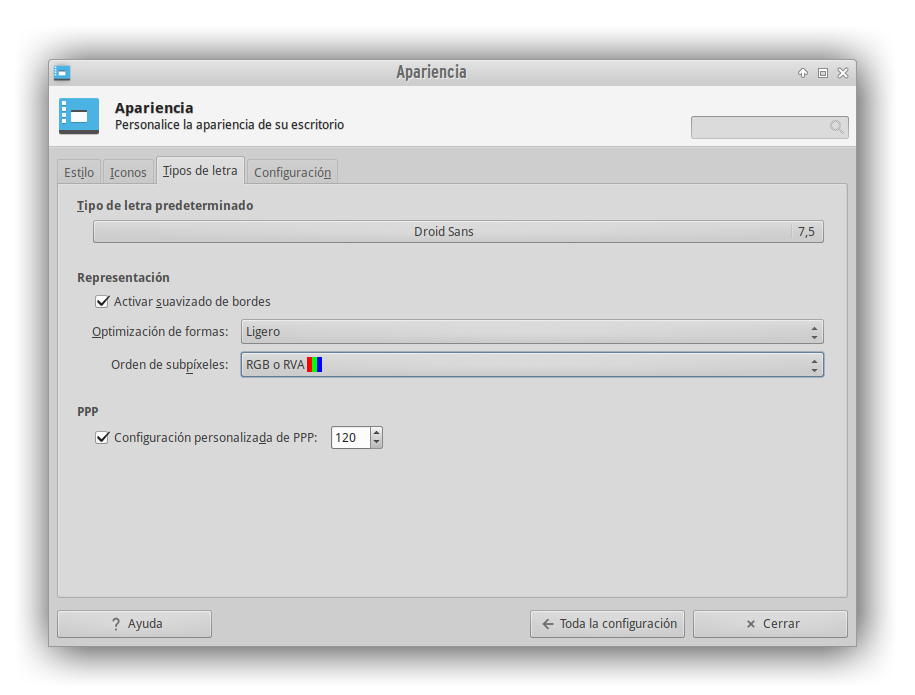
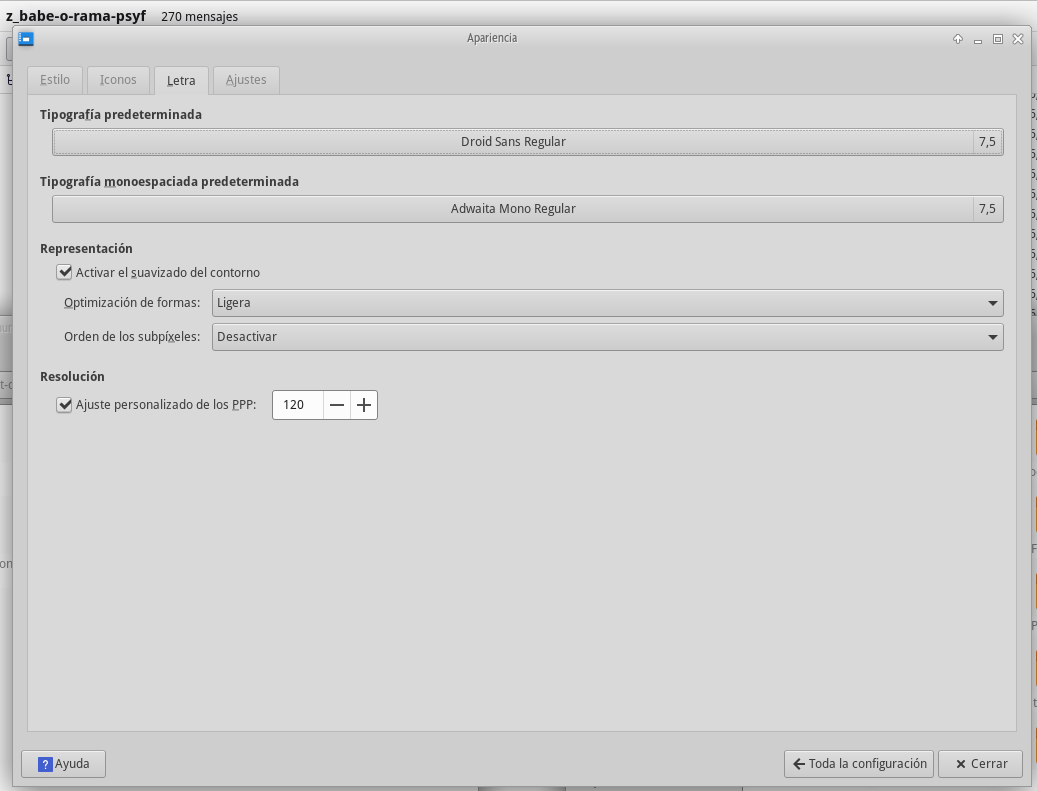
Fonts: multi-toolkit fix (fontconfig + XFCE Xft + Qt5/Qt6 sync)

diff --git a/fonts/README.md b/fonts/README.md
@@ -43,9 +43,60 @@ That's all, folks!
 A configuration file of font rendering to copy into:
 `/home/<user>/.config/fontconfig/`
 
+It only sets:
+
+- Antialiasing: on
+- Hinting: slight (`hintslight`)
+
+Nothing else: DPI, subpixel order and fonts are **desktop** settings, not
+fontconfig ones. They depend on your screen, so configure them in your
+desktop environment (XFCE: *Apariencia → Letra*).
+
 ## XFCE Configuration
 
+`install.sh` applies these XFCE settings via `xfconf-query` (skip with
+`SKIP_XFCONF=1`; they are skipped automatically when not running XFCE
+or when running as root):
+
+- Default font: Droid Sans 7.5
+- Default monospace font: Adwaita Mono 7.5
+- Antialiasing: on
+- Hinting: slight
+- Subpixel order: off (grayscale)
+- Custom DPI: 120
+
+Adjust DPI and subpixel order to your screen in *Apariencia → Letra*.
+
 ![XFCE Font Configuration](./fonts-xfce.png)
+
+## Toolkit Coverage (GTK and Qt)
+
+How font rendering and typography resolve per toolkit under XFCE:
+
+| Toolkit | Rendering (AA / hinting / DPI) | Typography (font family + size) |
+|---------|-------------------------------|--------------------------------|
+| GTK2    | XSETTINGS (xfsettingsd)       | XSETTINGS (xfsettingsd)        |
+| GTK3    | XSETTINGS (xfsettingsd)       | XSETTINGS (xfsettingsd)        |
+| GTK4    | XSETTINGS (xfsettingsd)       | XSETTINGS (xfsettingsd)        |
+| Qt5     | X resources (`Xft.*`) + fontconfig | `qt5ct` (`QT_QPA_PLATFORMTHEME=qt5ct`) |
+| Qt6     | X resources (`Xft.*`) + fontconfig | `qt6ct` (registers itself as `qt5ct`)  |
+
+`install.sh` covers the Qt side:
+
+- Copies `qt5ct.conf` / `qt6ct.conf` (Droid Sans 7.5 / Adwaita Mono 7.5)
+  into `~/.config/qt5ct/` / `~/.config/qt6ct/` only if missing (existing
+  custom configs are kept)
+- Sets `export QT_QPA_PLATFORMTHEME=qt5ct` in `~/.xsessionrc` and
+  `~/.profile` (idempotent). `~/.xsessionrc` is sourced by Xsession for the
+  whole session, so it also overrides an unwanted value from
+  `/etc/environment` (e.g. `gtk2`, which Qt6 ignores)
+- Adds the `Xft.*` block to `~/.Xresources` and merges it with `xrdb`
+  (belt and braces for apps that only read X resources)
+- Installs the `qt5ct` / `qt6ct` packages when missing (via `apt-get`,
+  using `sudo` when needed; otherwise it prints the command to run)
+
+Re-login required to apply the environment changes to every application.
+Skip the whole Qt block with `SKIP_QT=1`.
 
 ## KDE/Plasma Configuration
 

diff --git a/AGENTS.md b/AGENTS.md
@@ -13,7 +13,7 @@ A Linux desktop customization collection by jEsuSdA. Shell scripts, GTK/icon/fon
 | `compositors/` | `compositor.sh` (manages picom/compton/fastcompmgr/xfwm4), plus `picom.conf`, `compton.conf`, and the **binary compositors themselves** (committed to git). Install: `sudo ./install.sh` |
 | `cursors/` | Breeze cursor theme (`breeze_cursors.7z`). Install: `./install.sh` |
 | `extra/` | Thunar custom actions (`thunar.uca.xml`) — Markdown conversions, PDF tools, etc. Install: `./install.sh` |
-| `fonts/` | `fonts.conf` (hinting=true, autohint, rgb, DPI=120) + `.7z` font archives. Install: `./install.sh` |
+| `fonts/` | `fonts.conf` (hinting slight + antialias only) + `.7z` font archives; `install.sh` applies XFCE Xft settings (DPI 120, grayscale AA) via `xfconf-query` (`SKIP_XFCONF=1`) and Qt5/Qt6 sync: `qt5ct`/`qt6ct` confs, `QT_QPA_PLATFORMTHEME=qt5ct` in `~/.xsessionrc`/`~/.profile`, `Xft.*` in `~/.Xresources`, apt install of `qt5ct`/`qt6ct` (`SKIP_QT=1`). Install: `./install.sh` |
 | `greybird-patched/` | Patched Greybird GTK theme + `install-greybird.sh` + Firefox/Thunderbird userChrome |
 | `kitty-terminal/` | `kitty.conf` (1318 lines, Adwaita Mono 9pt, tiled background, Tango colors). Install: `./install.sh` |
 | `papirus-patched/` | `install-papirus.sh` (downloads latest or installs local archive, supports `hardcode-tray`) + 9 app-specific icon patches (aMule, Claws Mail, FBreader, gFTP, LibreOffice, MComix, Remarkable, Thunderbird tray, Zim) + XFCE4 Weather |
